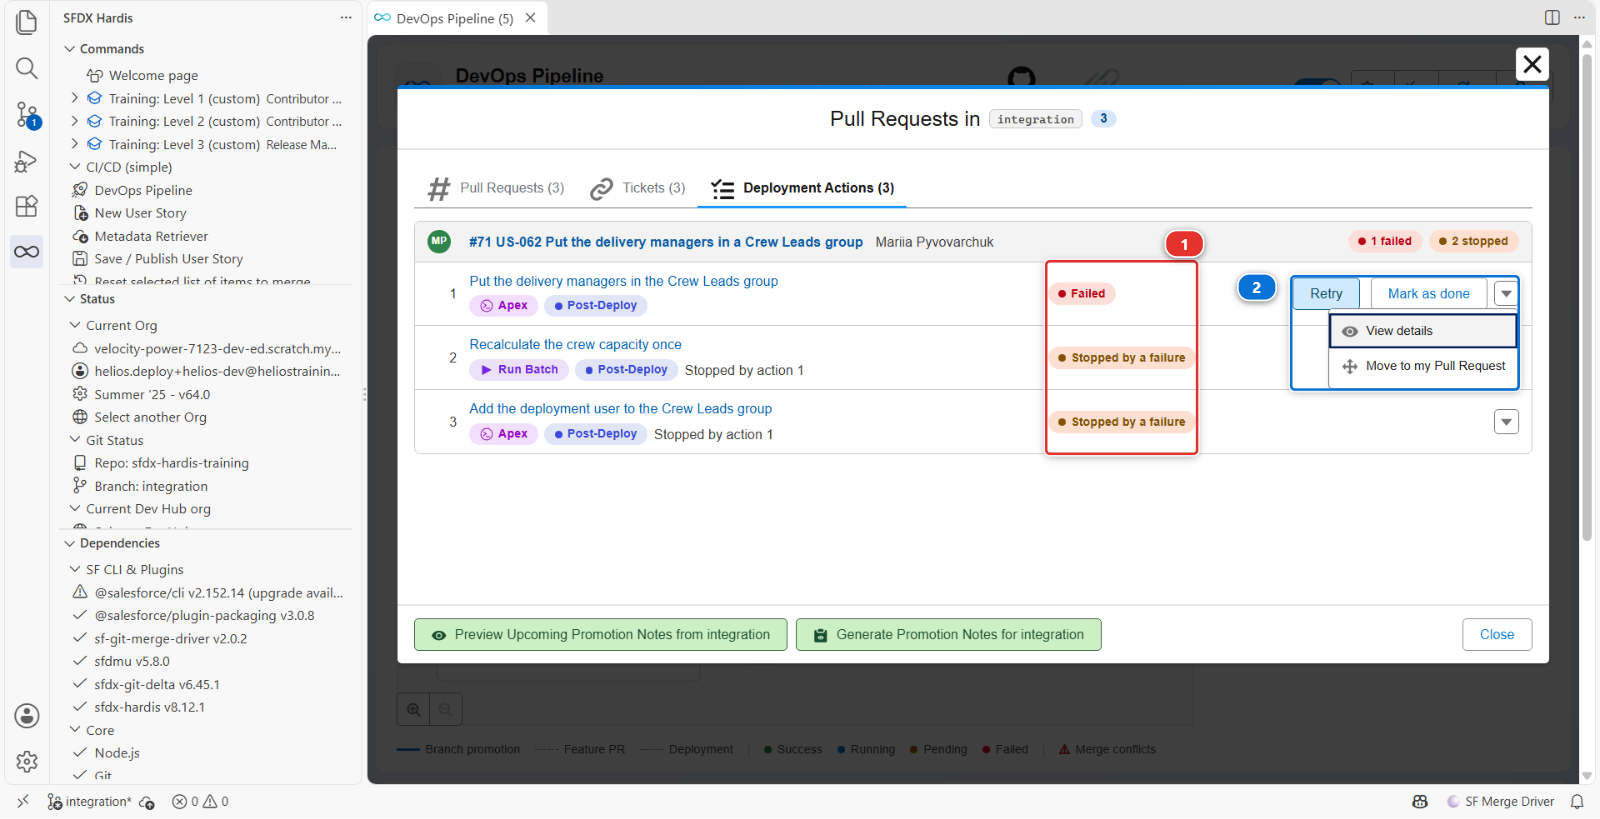
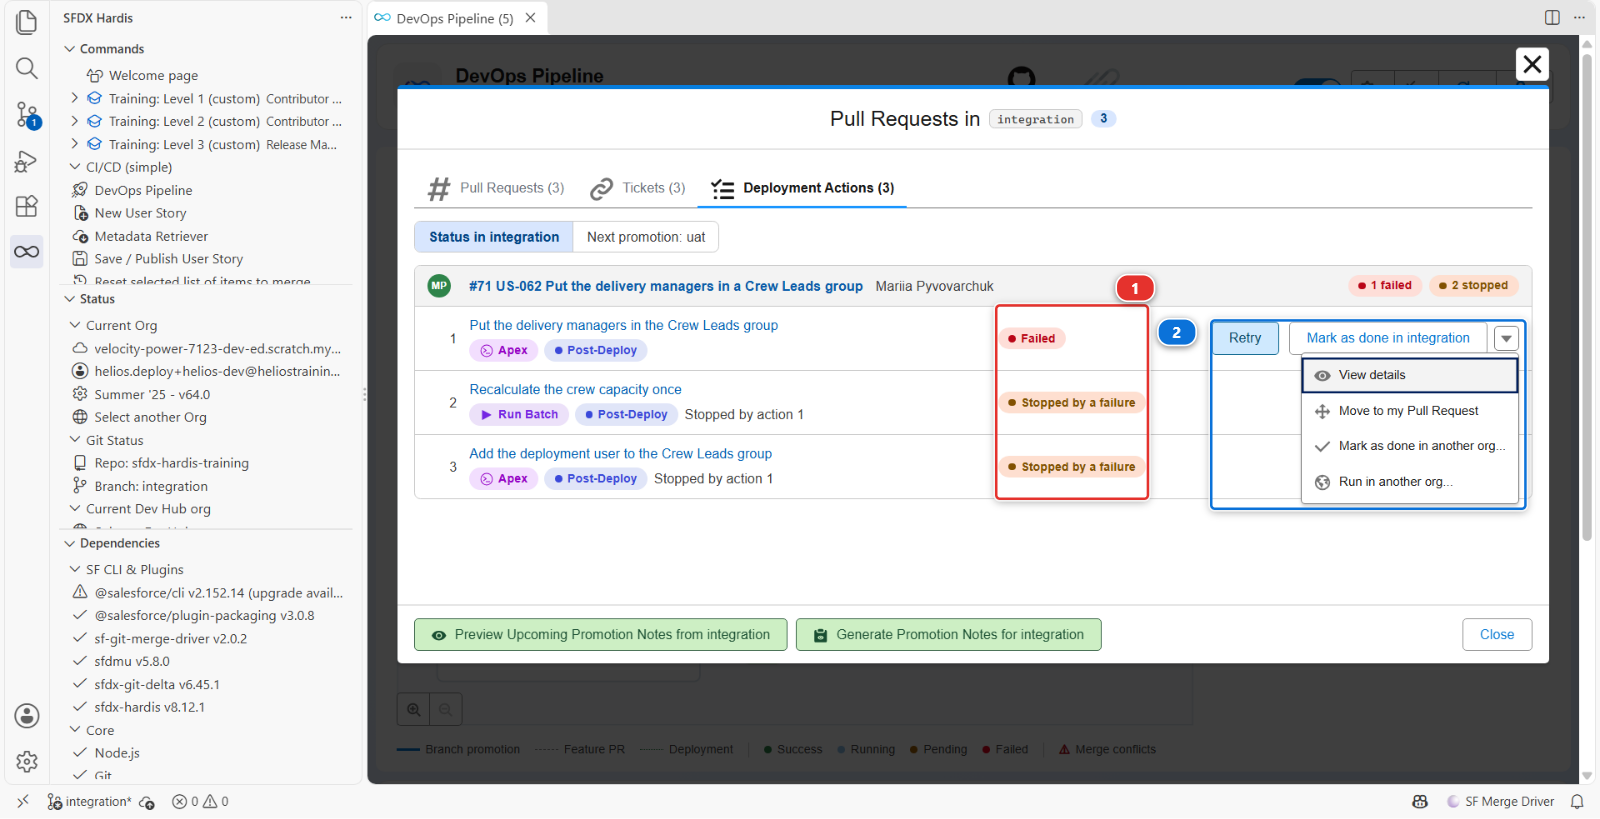
Lab 3.3: recapture the Deployment Actions tab of integration (#73)
The screenshot shows the Status / Next promotion switch above the actions and
the four items of the row menu, as the current extension draws them. Pills (1)
and (2) are re-pinned on the elements they framed before.

Changed region(s): [[0.25, 0.2442, 0.9688, 0.641]]

diff --git a/CHANGELOG.md b/CHANGELOG.md
@@ -5,6 +5,7 @@ a day, newest first, and a change goes under the date of the day it is made.
 
 ## 2026-10-04
 
+- Lab 3.3: the screenshot of the Deployment Actions tab shows the switch to the next promotion above the actions, and every item of the row menu.
 - Labs 2.3 and 2.4: the deployment actions file shows the ids the editor generates, and says not to change them.
 
 ## 2026-10-03
